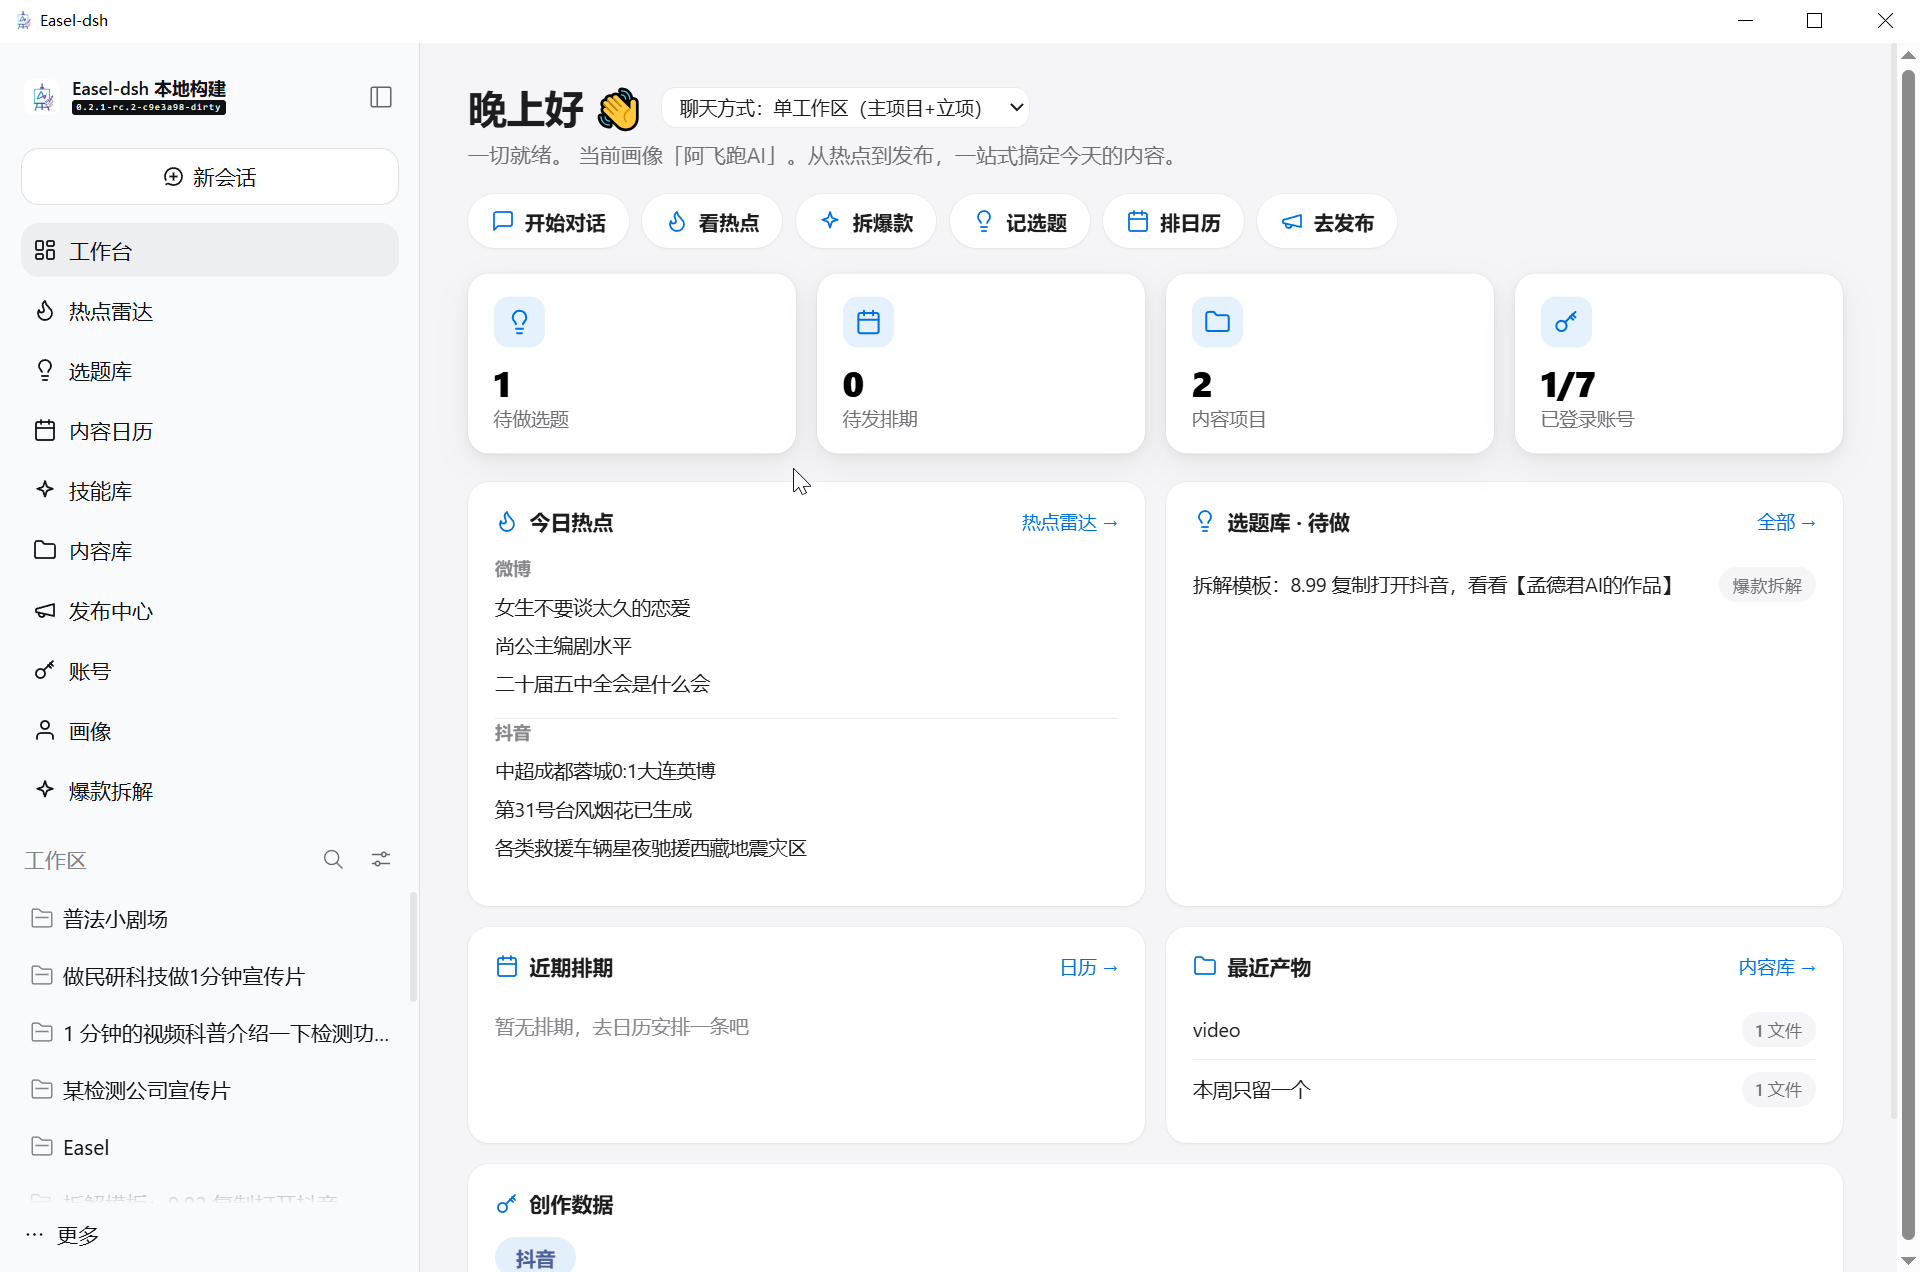
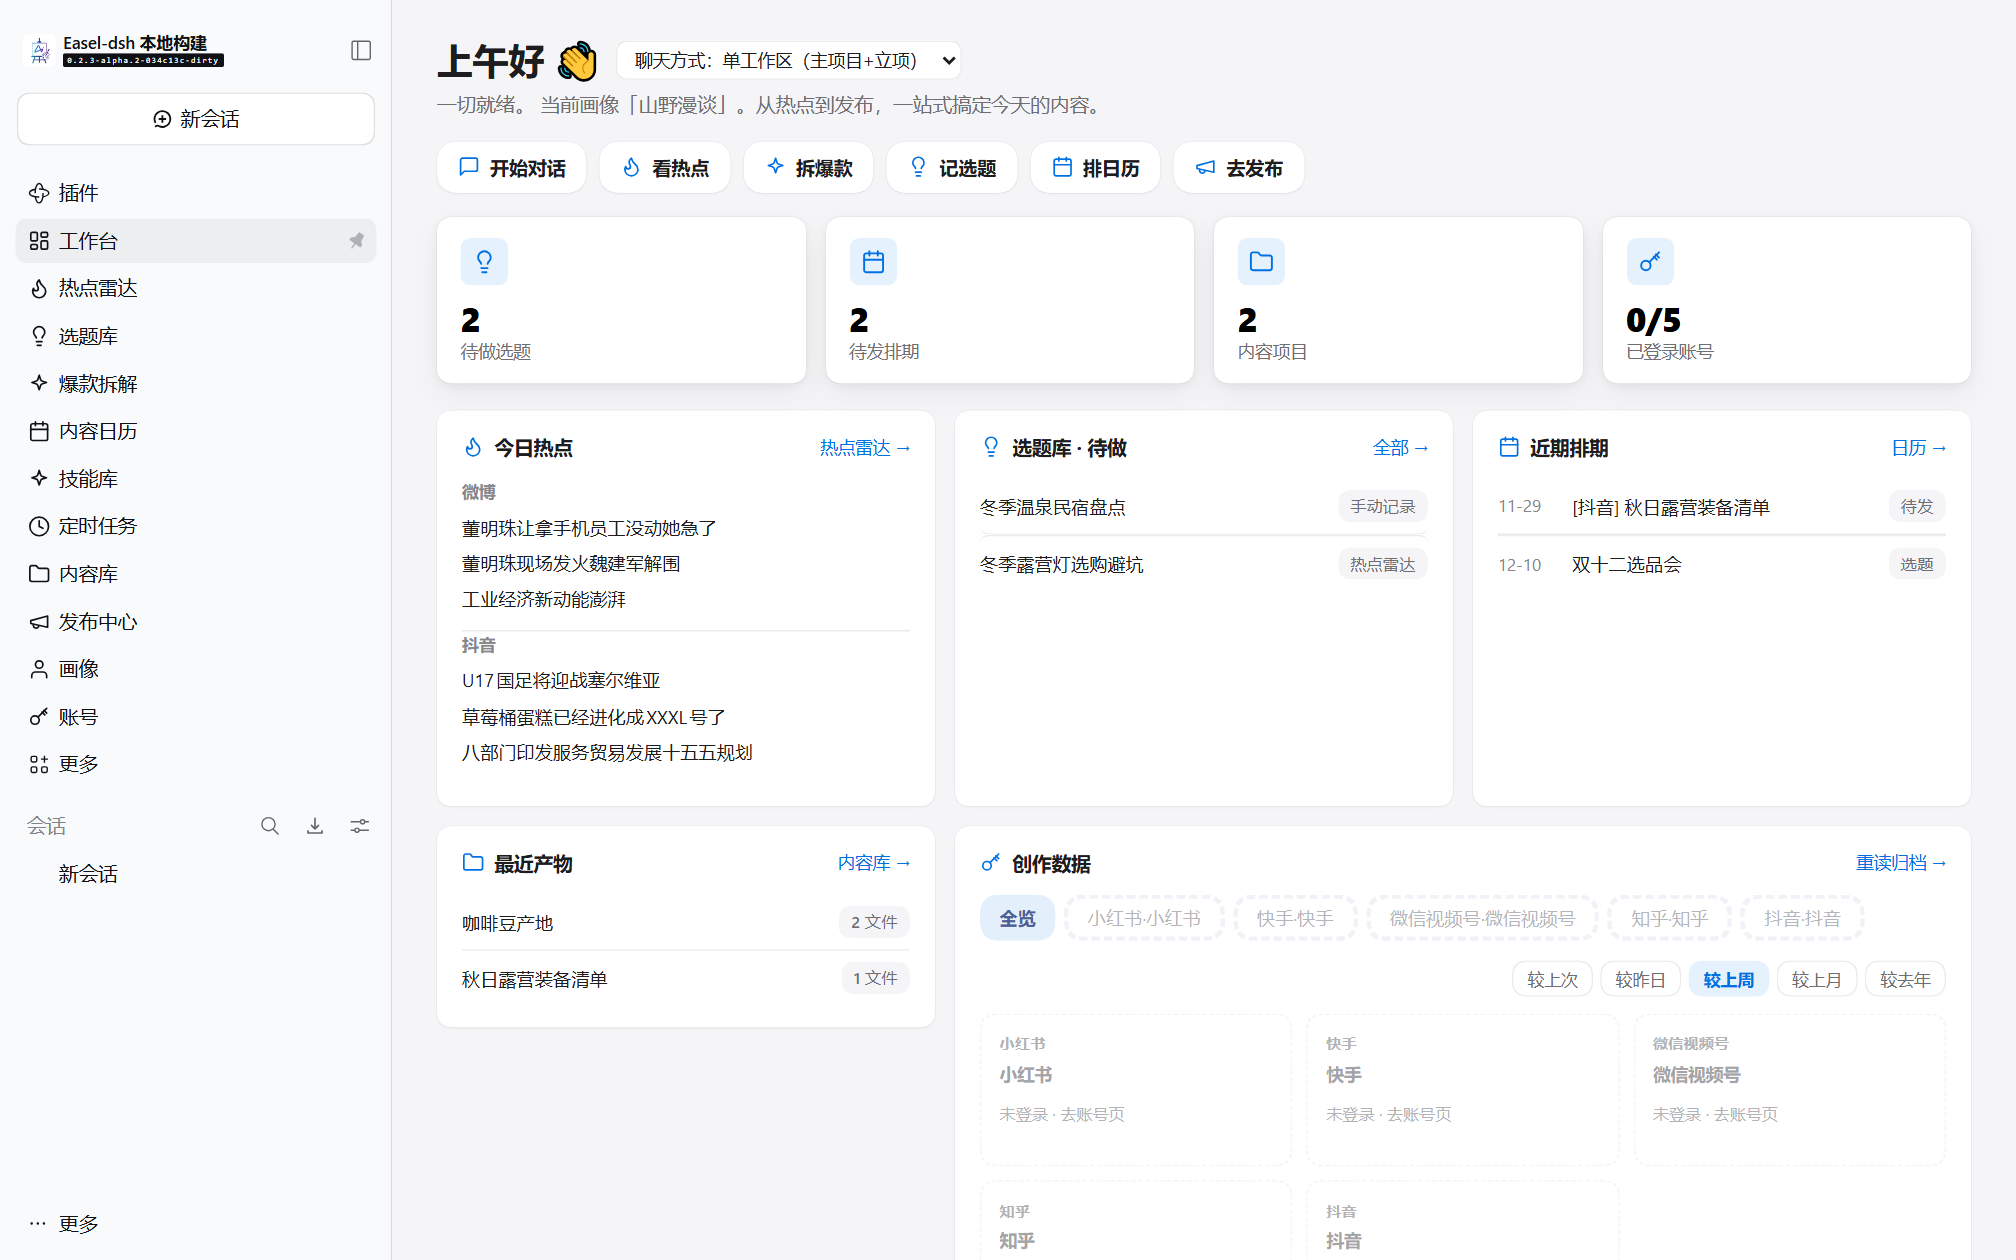
docs(readme): rebuild the product shots on an isolated demo
The root README shipped a workbench screenshot taken from real working data
(personal project names, an old dirty build badge), which does not belong on
a public page. Every picture is re-recorded from an isolated demo instance:
a scratch DSH_HOME/EASEL_HOME pair whose easel projectRoot points at staged
runtime content, so the real data root is never read or written.

- Refresh the workbench still and add radar, topics, calendar, persona,
  skills, and publishing shots to a 3x2 interface tour
- Add two GIFs: a product tour, and a real model round where the agent reads
  the ideas store and moves a topic to 进行中 (real rounds, no fixtures)
- Both READMEs gain the same sections; demo content is fictional, and the
  recording states its 2-4x playback speed

Doc gates: verify-translation-pairing, verify-subsystem-pages,
verify-repository-references, verify-concrete-terms and verify-md-wrap fail
identically on the unmodified tree (packages/*/README.i18n.yaml drift and
package-page links), so this change adds no new findings.

diff --git a/README-en.md b/README-en.md
@@ -28,6 +28,24 @@ Easel-dsh is a desktop social-media operations workbench built on [DeepSeek Harn
 
 <img src="assets/readme/features.svg" alt="Easel-dsh core capabilities: one creation flow, local content assets, pluggable models" width="100%">
 
+## Interface tour
+
+| Hotspot radar | Topic board |
+|---|---|
+| <img src="assets/readme/radar.png" alt="Hotspot radar: cross-platform trending aggregation" width="100%"> | <img src="assets/readme/topics.png" alt="Topic board: kanban with persona ownership" width="100%"> |
+| **Content calendar** | **Persona** |
+| <img src="assets/readme/calendar.png" alt="Content calendar: holiday underlay and scheduling" width="100%"> | <img src="assets/readme/persona.png" alt="Persona: six-dimension profile" width="100%"> |
+| **Skill library** | **Publishing** |
+| <img src="assets/readme/skills.png" alt="Skill library: 120 skills layered by pipeline stage" width="100%"> | <img src="assets/readme/publish.png" alt="Publishing hub: master copy rewrite and per-account distribution" width="100%"> |
+
+## Live demo
+
+| Product tour | Real AI round |
+|---|---|
+| <img src="assets/readme/easel-demo-tour.gif" alt="Product tour: workbench, hotspot radar, topic board, content calendar, persona" width="100%"> | <img src="assets/readme/easel-demo-agent.gif" alt="Real AI round: conversation drives the agent to read and update the topic board" width="100%"> |
+
+The demo GIFs were recorded on an isolated instance: real server, real model rounds (the agent genuinely called the topic-board skills), played back at 2-4x speed.
+
 ## Quick start
 
 1. Download the installer for your platform from [GitHub Releases](https://github.com/laochenfei233/easel-dsh/releases) (Windows / macOS / Linux; the installer bundles its own Node runtime, no system environment needed).

diff --git a/README.md b/README.md
@@ -28,6 +28,24 @@ Easel-dsh 是基于 [DeepSeek Harness](https://github.com/deepseek-ai/deepseek-h
 
 <img src="assets/readme/features.svg" alt="Easel-dsh 三大能力：一站式创作流、内容资产本地化、多模型随插随用" width="100%">
 
+## 界面速览
+
+| 热点雷达 | 选题库 |
+|---|---|
+| <img src="assets/readme/radar.png" alt="热点雷达：跨平台热搜聚合" width="100%"> | <img src="assets/readme/topics.png" alt="选题库：选题看板与画像归属" width="100%"> |
+| **内容日历** | **画像** |
+| <img src="assets/readme/calendar.png" alt="内容日历：节假日底图与排期" width="100%"> | <img src="assets/readme/persona.png" alt="画像：六维人设与默认画像" width="100%"> |
+| **技能库** | **发布中心** |
+| <img src="assets/readme/skills.png" alt="技能库：120 个技能按流水线分层" width="100%"> | <img src="assets/readme/publish.png" alt="发布中心：母版改写与按账号分发" width="100%"> |
+
+## 动态演示
+
+| 产品导览 | 真实 AI 轮次 |
+|---|---|
+| <img src="assets/readme/easel-demo-tour.gif" alt="产品导览：工作台、热点雷达、选题库、内容日历、画像" width="100%"> | <img src="assets/readme/easel-demo-agent.gif" alt="真实 AI 轮次：对话驱动 agent 读取与更新选题库" width="100%"> |
+
+演示 GIF 录制于隔离实例：真实服务端、真实模型轮次（agent 真实调用了选题库技能），播放为 2-4 倍速。
+
 ## 快速开始
 
 1. 从 [GitHub Releases](https://github.com/laochenfei233/easel-dsh/releases) 下载对应平台的安装包（Windows / macOS / Linux，安装包内嵌 Node 运行时，无需系统环境）。
